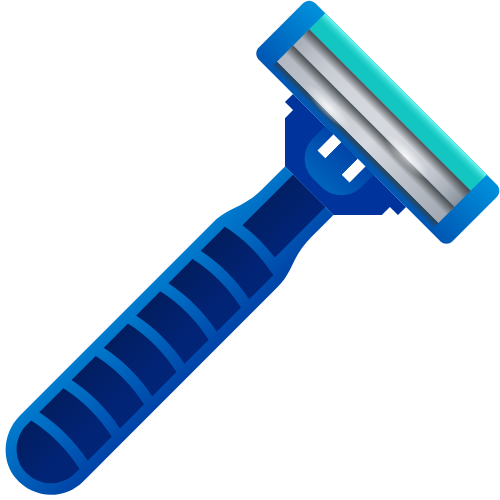
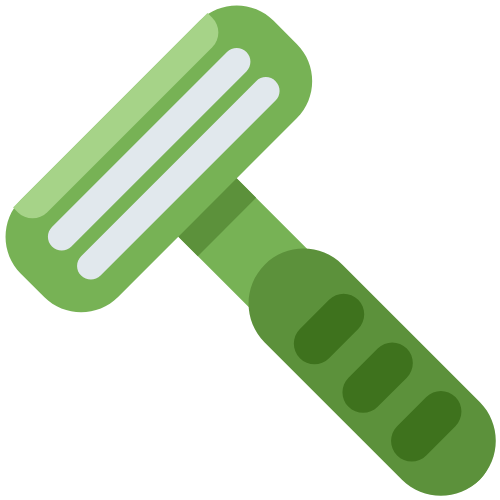
Misc Revisions
- Add scent drop add ons
- Add email icon to footer
- On home page remove ellipsis
- Replace razor icon on homepage
- 404 page has a footer when it shouldn’t
- About page : same gradient as home page for mobile view
- Faq first answer: rub instead of run
- After hours emergency number: change to dark orange color

diff --git a/app/services/page.tsx b/app/services/page.tsx
@@ -3,6 +3,7 @@ import Nav from "../components/Nav";
 import ServiceCard from "../components/ServiceCard";
 import Link from "next/link";
 import React from "react";
+import Footer from "../components/Footer";
 export default function Services() {
   return (
     <>
@@ -17,45 +18,6 @@ export default function Services() {
           </p>
         </section>
 
-        {/*TODO: add information about travel fees*/}
-
-        <section className={styles.serviceSection}>
-          <ServiceCard
-            title="Classic Mobile Tan"
-            description="A quick, customizable glo in the comfort of your own home. No need to worry about what you look like or what to wear."
-            price="$65+"
-          />
-
-          <ServiceCard
-            title="Mobile Rapid Tan"
-            description="Need a quick, last minute glo? The rapid tan allows you to shower within 2-5 hours! Perfect if you don’t have time to wait the full 8-10 hours for a classic tan. For light tans, shower after two hours – wait four to five hours for that extra dark look! The depth of color is entirely up to you."
-            price="$75+"
-            recommended={true}
-          />
-
-          <ServiceCard
-            title="Tanning Parties / Group Rates"
-            description="Want to have a glo party, or just get tan with your friends? Get your tan discounted with a group of 3 or more! Please message me so we can talk about the details."
-          />
-
-          <ServiceCard
-            title="Coastal Glo Membership"
-            description="Becoming a member includes 2 custom spray tans a month, with your choice of classic or rapid! This package also includes priority booking over non-members and discounted rates per session."
-            price="$100"
-          />
-        </section>
-
-        <section className={styles.feeSection}>
-          <h4>Travel Fees:</h4>
-          <p>
-            Travel fees may apply depending on distance. If you are outside of
-            the Wilmington area by 10-15 miles, there will be a $10 travel fee.
-            If you are outside of the Wilmington area by 16-20 miles, there will
-            be a $20 travel fee. If you are outside of the Wilmington area by
-            20+ miles, please contact me for more information.
-          </p>
-        </section>
-
         <section className={styles.bookingSection}>
           <Link
             href={"https://coastalglomobile.glossgenius.com/services"}
@@ -65,7 +27,71 @@ export default function Services() {
             <p className={styles.bookNowButton}>Book Now</p>
           </Link>
         </section>
+
+        <section className={styles.serviceSection}>
+          <ServiceCard
+            title="Classic Mobile Tan"
+            description="A quick, customizable glo in the comfort of your own home. No need to worry about what you
+            look like or what to wear."
+            price="$65+"
+          />
+
+          <ServiceCard
+            title="Mobile Rapid Tan"
+            description="Need a quick, last minute glo? The rapid tan allows you to shower within 2-5 hours! Perfect if
+            you don’t have time to wait the full 8-10 hours for a classic tan. For light tans, shower after two hours –
+            wait four to five hours for that extra dark look! The depth of color is entirely up to you."
+            price="$75+"
+            recommended={true}
+          />
+
+          <ServiceCard
+            title="Tanning Parties / Group Rates"
+            description="Want to have a glo party, or just get tan with your friends? Get your tan discounted with a
+            group of 3 or more! Please message me so we can talk about the details."
+          />
+
+          <ServiceCard
+            title="Coastal Glo Membership"
+            description="Becoming a member includes 2 custom spray tans a month, with your choice of classic or rapid!
+            This package also includes priority booking over non-members and discounted rates per session."
+            price="$100"
+          />
+        </section>
+
+        <section className={styles.addonsSection}>
+          <h4 className={styles.addonsTitle}>Enhance Your Experience:</h4>
+          <p className={styles.addonsDescription}>
+            Elevate your tan with our exclusive scent add-ons. For just an
+            additional $10, you can personalize your tanning experience with our
+            signature scents. Choose your favorite:
+          </p>
+          <ul className={styles.addonsList}>
+            <li className={styles.addonItem}>
+              Coconut Scent Drops (A tropical escape)
+            </li>
+            <li className={styles.addonItem}>
+              Pineapple Scent Drops (Refreshingly sweet)
+            </li>
+            <li className={styles.addonItem}>
+              Orange Ginger Scent Drops (Zesty and invigorating)
+            </li>
+          </ul>
+        </section>
+
+        <section className={styles.feeSection}>
+          <h4>Travel Fees:</h4>
+          <p>
+            Travel fees may apply depending on distance. If you are outside of
+            the Wilmington area by 10-15 miles, there will be a $10 travel fee.
+            If you are outside of the Wilmington area by 16-20 miles, there will
+            be a $20 travel fee. If you are outside of the Wilmington area by
+            20+ miles, please contact me for more information. My contact
+            information can be found at the bottom of this page. Thank you!
+          </p>
+        </section>
       </main>
+      <Footer />
     </>
   );
 }

diff --git a/app/faq/page.tsx b/app/faq/page.tsx
@@ -1,6 +1,7 @@
 import styles from "../../styles/FAQ.module.css";
 import Nav from "../components/Nav";
 import FAQCard from "../components/FAQCard";
+import Footer from "../components/Footer";
 
 export default function FAQ() {
   return (
@@ -12,11 +13,14 @@ export default function FAQ() {
         <h1 className={styles.aboutTitle}>Frequently Asked Questions</h1>
         <FAQCard
           question="Should I get my mani/pedi before or after my spray tan?"
-          answer="Definitely get your mani/pedi done before your spray tan appointment. Make sure all oils and lotions are wiped off your hands and feet. If you must get a mani/ pedi after your tan, make sure to wait until after your first shower. Also avoid the massage portion, as their products may run off your tan."
+          answer="Definitely get your mani/pedi done before your spray tan appointment. Make sure all oils and lotions
+          are wiped off your hands and feet. If you must get a mani/ pedi after your tan, make sure to wait until after
+          your first shower. Also avoid the massage portion, as their products may rub off your tan."
         />
         <FAQCard
           question="Should I get my facial/massage before or after my spray tan?"
-          answer="It’s recommended to get all facial and massage services before your tan. The products and lotion will rub off your tan otherwise."
+          answer="It’s recommended to get all facial and massage services before your tan. The products and lotion will
+          rub off your tan otherwise."
         />
         <FAQCard
           question="How many days before an event should I book my tan?"
@@ -24,15 +28,19 @@ export default function FAQ() {
         />
         <FAQCard
           question="Are spray tans safe when your pregnant or breastfeeding?"
-          answer="DHA (spray tan solution) is FDA approved and only penetrates the outermost layer of the skin. Just make sure to talk to your doctor to get the go-ahead."
+          answer="DHA (spray tan solution) is FDA approved and only penetrates the outermost layer of the skin. Just
+           make sure to talk to your doctor to get the go-ahead."
         />
         <FAQCard
           question="What do I wear before and after my spray tan?"
-          answer="Try your best to wear loose fitting dark clothing. Your skin needs to breathe and your tan has a better environment to set in properly. If you don’t want bra lines I would suggest to not even wear a bra that day so you don’t risk those outlines. If you do get bronzer on your clothes it will come out in the wash."
+          answer="Try your best to wear loose fitting dark clothing. Your skin needs to breathe and your tan has a
+          better environment to set in properly. If you don’t want bra lines I would suggest to not even wear a bra
+          that day so you don’t risk those outlines. If you do get bronzer on your clothes it will come out in the wash."
         />
         <FAQCard
           question="How soon can I workout after my tan?"
-          answer="Try your best to avoid sweating within the first 24 hours while your tan is still developing. You can workout after that 24 hour period, after your first shower/rinse."
+          answer="Try your best to avoid sweating within the first 24 hours while your tan is still developing. You
+          can workout after that 24 hour period, after your first shower/rinse."
         />
         <FAQCard
           question="How long will my tan last?"
@@ -40,17 +48,23 @@ export default function FAQ() {
         />
         <FAQCard
           question="What do I wear during the spray tan?"
-          answer="I want you to feel as comfortable as possible. So dress down to your comfort level. Most clients go fully nude to avoid tan lines, or usually just wear old underwear. I provide disposable thongs and bras if needed."
+          answer="I want you to feel as comfortable as possible. So dress down to your comfort level. Most clients
+          go fully nude to avoid tan lines, or usually just wear old underwear. I provide disposable thongs and bras
+          if needed."
         />
         <FAQCard
           question="What will remove my tan?"
-          answer="Chlorinated pools and hot tubs are the big ones unfortunately. Other things include exfoliating, waxing, shaving, and non-natural soaps like Dove. Staying hydrated and moisturizing everyday are vital for your tan to last. If you are intentionally trying to scrub your tan off, you can make a paste of baking soda,water,and lemon juice to rub on your body for a few minutes before rinsing."
+          answer="Chlorinated pools and hot tubs are the big ones unfortunately. Other things include exfoliating,
+          waxing, shaving, and non-natural soaps like Dove. Staying hydrated and moisturizing everyday are vital for
+          your tan to last. If you are intentionally trying to scrub your tan off, you can make a paste of baking
+          soda,water,and lemon juice to rub on your body for a few minutes before rinsing."
         />
         <FAQCard
           question="How long does the appointment take?"
           answer="The appointment takes around 15-30 min including setting up,spraying,and breaking down."
         />
       </main>
+      <Footer />
     </>
   );
 }

diff --git a/styles/Services.module.css b/styles/Services.module.css
@@ -3,7 +3,7 @@
 }
 
 .servicesMain {
-  padding-top: 50px;
+  padding: 50px 0;
 }
 
 .servicesHeader {
@@ -31,7 +31,9 @@
 }
 
 .bookingSection {
-  padding: 0 0 50px;
+  padding: 50px 0 0;
+  width: fit-content;
+  margin: auto;
 }
 
 .bookNowButton {
@@ -62,7 +64,40 @@
   align-items: center;
   flex-direction: column;
   padding: 0 50px 50px;
-  max-width: 800px;
+  /*max-width: 800px;*/
+  width: 85%;
   margin: auto;
   text-align: center;
+}
+
+.addonsSection {
+  background-color: #f9f9f9; /* Light grey background for subtle contrast */
+  border-radius: 5px;
+  display: flex;
+  justify-content: center;
+  align-items: center;
+  flex-direction: column;
+  padding: 20px; /* Increased padding for spacious layout */
+  /*max-width: 800px;*/
+  width: 85%;
+  margin: 0 auto 50px; /* Added margin for spacing from other sections */
+  text-align: center;
+  box-shadow: 0 2px 4px rgba(0,0,0,0.1); /* Soft shadow for depth */
+}
+
+.addonsSection h4 {
+  margin-bottom: 15px; /* Space between title and content */
+  font-size: 1.5rem; /* Larger font size for title */
+  color: #333; /* Darker color for emphasis */
+}
+
+.addonsSection ul {
+  list-style-type: none; /* Removing default bullets */
+  padding: 0;
+}
+
+.addonsSection li {
+  font-size: 1rem; /* Appropriate font size for readability */
+  color: var(--color-quaternary); /* Slightly lighter text for contrast */
+  padding: 8px 0; /* Spacing between list items */
 }

diff --git a/app/components/Footer.tsx b/app/components/Footer.tsx
@@ -1,6 +1,7 @@
 import styles from "../../styles/Footer.module.css";
 import Image from "next/image";
 import NextLink from "next/link";
+import { FaArrowUpFromBracket } from "react-icons/fa6";
 
 export default function Footer() {
   return (
@@ -12,14 +13,16 @@ export default function Footer() {
           <div className={styles.emergency}>
             <p>After Hours Emergency Number:</p>
             <p>
-              <a href="tel:910-633-7352">(910) 633-7352</a>
+              <a href="tel:910-633-7352">
+                (910) 633-7352 <FaArrowUpFromBracket />
+              </a>
             </p>
           </div>
           <div className={styles.nonEmergency}>
             <p>For questions, please contact me at:</p>
             <p>
               <a href="mailto:coastalglomobile@gmail.com?subject=Question&amp;body=Dear%20Meghan,%0D%0A%0D%0A[Your%20question%20here]%0D%0A%0D%0AThank%20you.">
-                coastalglomobile@gmail.com
+                coastalglomobile@gmail.com <FaArrowUpFromBracket />
               </a>
             </p>
           </div>

diff --git a/app/page.tsx b/app/page.tsx
@@ -5,6 +5,7 @@ import React from "react";
 import CycleText from "./components/CycleText";
 import InfoCard from "./components/InfoCard";
 import Image from "next/image";
+import Footer from "./components/Footer";
 
 export default function Home() {
   return (
@@ -42,7 +43,7 @@ export default function Home() {
       </header>
       <main className={styles.main}>
         <section className={styles.sjolieSection}>
-          <h2>Sjolie Tanning Solution is ...</h2>
+          <h2>Sjolie Tanning Solution is</h2>
 
           <div className={styles.cycleText}>
             <CycleText
@@ -173,6 +174,7 @@ export default function Home() {
           </div>
         </section>
       </main>
+      <Footer />
     </>
   );
 }

diff --git a/app/layout.tsx b/app/layout.tsx
@@ -1,7 +1,6 @@
 import type { Metadata } from "next";
 import { Montserrat, Playfair_Display } from "next/font/google";
 import "../styles/globals.css";
-import Footer from "./components/Footer";
 import { Analytics } from "@vercel/analytics/react";
 
 const montserrat = Montserrat({
@@ -34,10 +33,7 @@ export default function RootLayout({
       className={`${montserrat.variable} ${playfairDisplay.variable}`}
     >
       <Analytics />
-      <body>
-        {children}
-        <Footer />
-      </body>
+      <body>{children}</body>
     </html>
   );
 }

diff --git a/app/about/page.tsx b/app/about/page.tsx
@@ -1,6 +1,7 @@
 import styles from "../../styles/About.module.css";
 import Nav from "../components/Nav";
 import Image from "next/image";
+import Footer from "../components/Footer";
 
 export default function About() {
   return (
@@ -71,6 +72,7 @@ export default function About() {
           </section>
         </div>
       </main>
+      <Footer />
     </>
   );
 }

diff --git a/styles/About.module.css b/styles/About.module.css
@@ -178,7 +178,13 @@
   }
 
   .aboutBackground {
-    background-color: white;
+    background: linear-gradient(
+      to bottom,
+      var(--color-primary) 0%,
+      white 15%,
+      white 95%,
+      var(--color-primary) 100%
+    );
     border-radius: 0;
   }
 

diff --git a/styles/Footer.module.css b/styles/Footer.module.css
@@ -49,11 +49,11 @@
 }
 
 .emergency {
-  color: rgb(195, 0, 0);
+  color: var(--color-quaternary);
 }
 
 .emergency a {
-  color: rgb(195, 0, 0);
+  color: var(--color-quaternary);
 }
 
 .nonEmergency {
